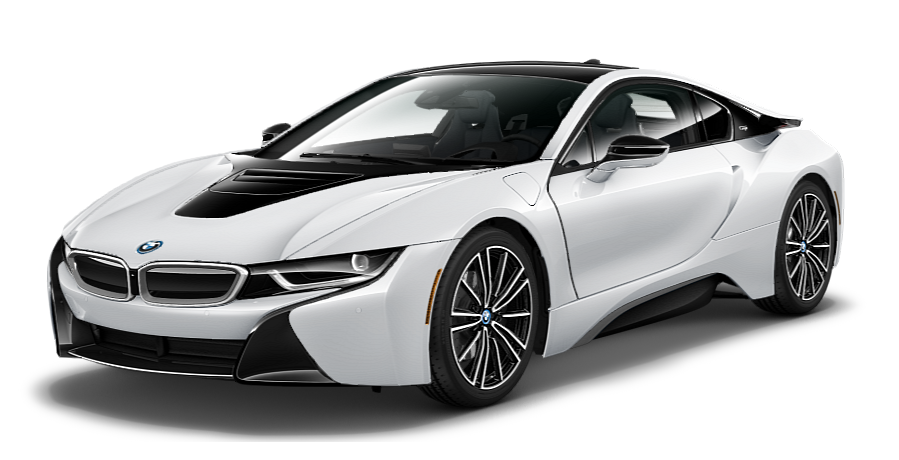
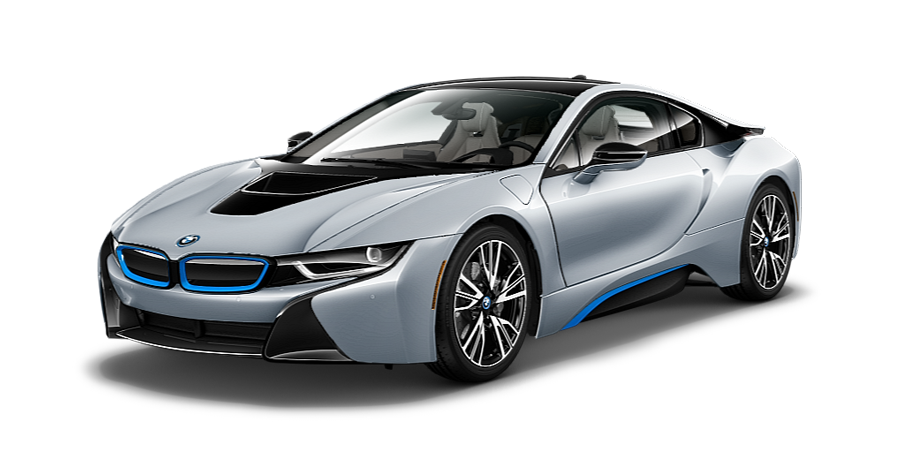
Update color usage

diff --git a/frontend/src/components/CarCard.vue b/frontend/src/components/CarCard.vue
@@ -2,7 +2,7 @@
     <div class="box car-card">
         <div class="car-card__header">
             <figure>
-                <img :src="`img/${car.image}`" class="img-fluid" alt="">
+                <img :src="`img/${image}`" class="img-fluid" alt="">
             </figure>
         </div>
         <div class="car-card__body">
@@ -10,8 +10,15 @@
 
                 <span class="car-price">{{ car.formattedPrice }}</span>
                 <ul class="car-colors">
-                    <li v-for="color in car.colors" :key="color" class="car-colors__item">
-                        <span :style="{ background: color }"></span>
+                    <li
+                            v-for="(color, key) in car.colors"
+                            :key="color.id"
+                            :title="color.name"
+                            :class="{'car-colors__item--active': key === selectedColor}"
+                            class="car-colors__item"
+                            @click="selectColor(key)"
+                    >
+                        <span :style="{ background: color.hex }"></span>
                     </li>
                 </ul>
             </div>
@@ -44,5 +51,14 @@
         }
     })
     export default class CarCard extends Vue {
+        public selectedColor: number = 0;
+
+        get image() {
+            return this.$props.car.images[this.selectedColor];
+        }
+
+        public selectColor(key: number) {
+            this.selectedColor = key;
+        }
     }
 </script>

diff --git a/frontend/src/models/Car.ts b/frontend/src/models/Car.ts
@@ -1,4 +1,5 @@
 import CarInterface from '@/interfaces/CarInterface';
+import Color from '@/models/Color';
 
 export default class Car implements CarInterface {
     public static fromJson(json: CarInterface) {
@@ -10,8 +11,10 @@ export default class Car implements CarInterface {
     public type: string;
     public description: string;
     public price: number;
-    public image: string;
-    public colors: string[];
+    public colors: Color[];
+    public imageTemplate: string;
+    public images: string[];
+
 
     constructor(params: CarInterface) {
         this.id = params.id;
@@ -19,8 +22,12 @@ export default class Car implements CarInterface {
         this.type = params.type;
         this.description = params.description;
         this.price = params.price;
-        this.image = params.image;
-        this.colors = params.colors;
+        this.colors = params.colors.map(Color.fromJson);
+        this.imageTemplate = params.imageTemplate;
+
+        this.images = this.colors.map(c => {
+            return this.imageTemplate.replace('%color%', c.name);
+        })
     }
 
     get formattedPrice() {

diff --git a/frontend/src/views/OrderCar.vue b/frontend/src/views/OrderCar.vue
@@ -1,11 +1,13 @@
 <template>
     <div>
         <main-nav />
+
         <ul>
             <li v-for="(step, key) in steps" :class="{'active': key === activeStep }">
                 {{ step.id }}{{ step.name }}
             </li>
         </ul>
+
         <div v-if="order != null">
             <h2>{{ order.selectedCar.brand }} {{ order.selectedCar.type }}</h2>
             <h4>{{ order.selectedCar.description }}</h4>
@@ -18,7 +20,7 @@
 
 <script lang="ts">
     import {Component, Vue} from 'vue-property-decorator';
-    import MainNav from "@/components/MainNav.vue";
+    import MainNav from '@/components/MainNav.vue';
     import Order from '@/models/Order';
 
     const namespace: string = 'Order';

diff --git a/frontend/src/models/Color.ts b/frontend/src/models/Color.ts
@@ -1,0 +1,17 @@
+import ColorInterface from '@/interfaces/ColorInterface';
+
+export default class Color implements ColorInterface {
+    public static fromJson(json: ColorInterface): Color {
+        return new Color(json);
+    }
+
+    public id: number;
+    public name: string;
+    public hex: string;
+
+    constructor(params: ColorInterface) {
+        this.id = params.id;
+        this.name = params.name;
+        this.hex = params.hex;
+    }
+}

diff --git a/frontend/src/sass/components/_car-card.scss b/frontend/src/sass/components/_car-card.scss
@@ -41,6 +41,7 @@
       height: 1.2rem;
       border-radius: 9999px;
       line-height: 0;
+      cursor: pointer;
 
       +.car-colors__item {
         margin-left: 0.5rem;
@@ -52,6 +53,11 @@
         height: 100%;
         width: 100%;
         display: inline-block;
+      }
+
+      &--active,
+      &:hover {
+        border-color: $primary-color;
       }
     }
   }

diff --git a/frontend/src/interfaces/CarInterface.ts b/frontend/src/interfaces/CarInterface.ts
@@ -1,9 +1,12 @@
+import Color from '@/models/Color';
+
 export default interface CarInterface {
     id: number;
     brand: string;
     type: string;
     description: string;
     price: number;
-    image: string;
-    colors: string[];
+    images: string[];
+    imageTemplate: string;
+    colors: Color[];
 }

diff --git a/frontend/src/interfaces/ColorInterface.ts b/frontend/src/interfaces/ColorInterface.ts
@@ -1,0 +1,5 @@
+export default interface ColorInterface {
+    id: number;
+    name: string;
+    hex: string;
+}

diff --git a/backend/CarsDataStore.cs b/backend/CarsDataStore.cs
@@ -22,12 +22,27 @@ namespace backend
                     Type = "7 series",
                     Description = "Sedan - Driving Luxery",
                     Price = 25400.00,
-                    Image = "bmw-7-red.png",
-                    Colors = new List<string>
+                    ImageTemplate = "bmw-7-%color%.png",
+                    Colors = new List<ColorDto>
                     {
-                        "#ffffff",
-                        "#f44336",
-                        "#2196f3",
+                        new ColorDto
+                        {
+                            Id = 1,
+                            Name = "silver",
+                            Hex = "#f0f0f0",
+                        },
+                        new ColorDto
+                        {
+                            Id = 2,
+                            Name = "red",
+                            Hex = "#f44336",
+                        },
+                        new ColorDto
+                        {
+                            Id = 3,
+                            Name = "blue",
+                            Hex = "#2196f3",
+                        }
                     }
                 },
                 
@@ -38,10 +53,21 @@ namespace backend
                     Type = "i8",
                     Description = "Awesome car",
                     Price = 61100.00,
-                    Image = "bmw-i8-white.png",
-                    Colors = new List<string>
+                    ImageTemplate = "bmw-i8-%color%.png",
+                    Colors = new List<ColorDto>
                     {
-                        "#ffffff",
+                        new ColorDto
+                        {
+                            Id = 1,
+                            Name = "white",
+                            Hex = "#fff",
+                        },
+                        new ColorDto
+                        {
+                            Id = 4,
+                            Name = "black",
+                            Hex = "#222",
+                        },
                     }
                 },
                 
@@ -52,11 +78,15 @@ namespace backend
                     Type = "XE",
                     Description = "Big cat",
                     Price = 55120.00,
-                    Image = "jaguar-xe-black.png",
-                    Colors = new List<string>
+                    ImageTemplate = "jaguar-xe-%color%.png",
+                    Colors = new List<ColorDto>
                     {
-                        "#ffffff",
-                        "#222222",
+                        new ColorDto
+                        {
+                            Id = 4,
+                            Name = "black",
+                            Hex = "#222",
+                        },
                     }
                 }
             };

diff --git a/backend/Models/CarDto.cs b/backend/Models/CarDto.cs
@@ -12,7 +12,7 @@ namespace backend.Models
         public string Type { get; set; }
         public string Description { get; set; }
         public double Price { get; set; }
-        public string Image { get; set; }
-        public IEnumerable<string> Colors { get; set; }
+        public string ImageTemplate { get; set; }
+        public IEnumerable<ColorDto> Colors { get; set; }
     }
 }

diff --git a/backend/Models/ColorDto.cs b/backend/Models/ColorDto.cs
@@ -1,0 +1,14 @@
+using System;
+using System.Collections.Generic;
+using System.Linq;
+using System.Threading.Tasks;
+
+namespace backend.Models
+{
+    public class ColorDto
+    {
+        public int Id { get; set; }
+        public string Name { get; set; }
+        public string Hex { get; set; }
+    }
+}
